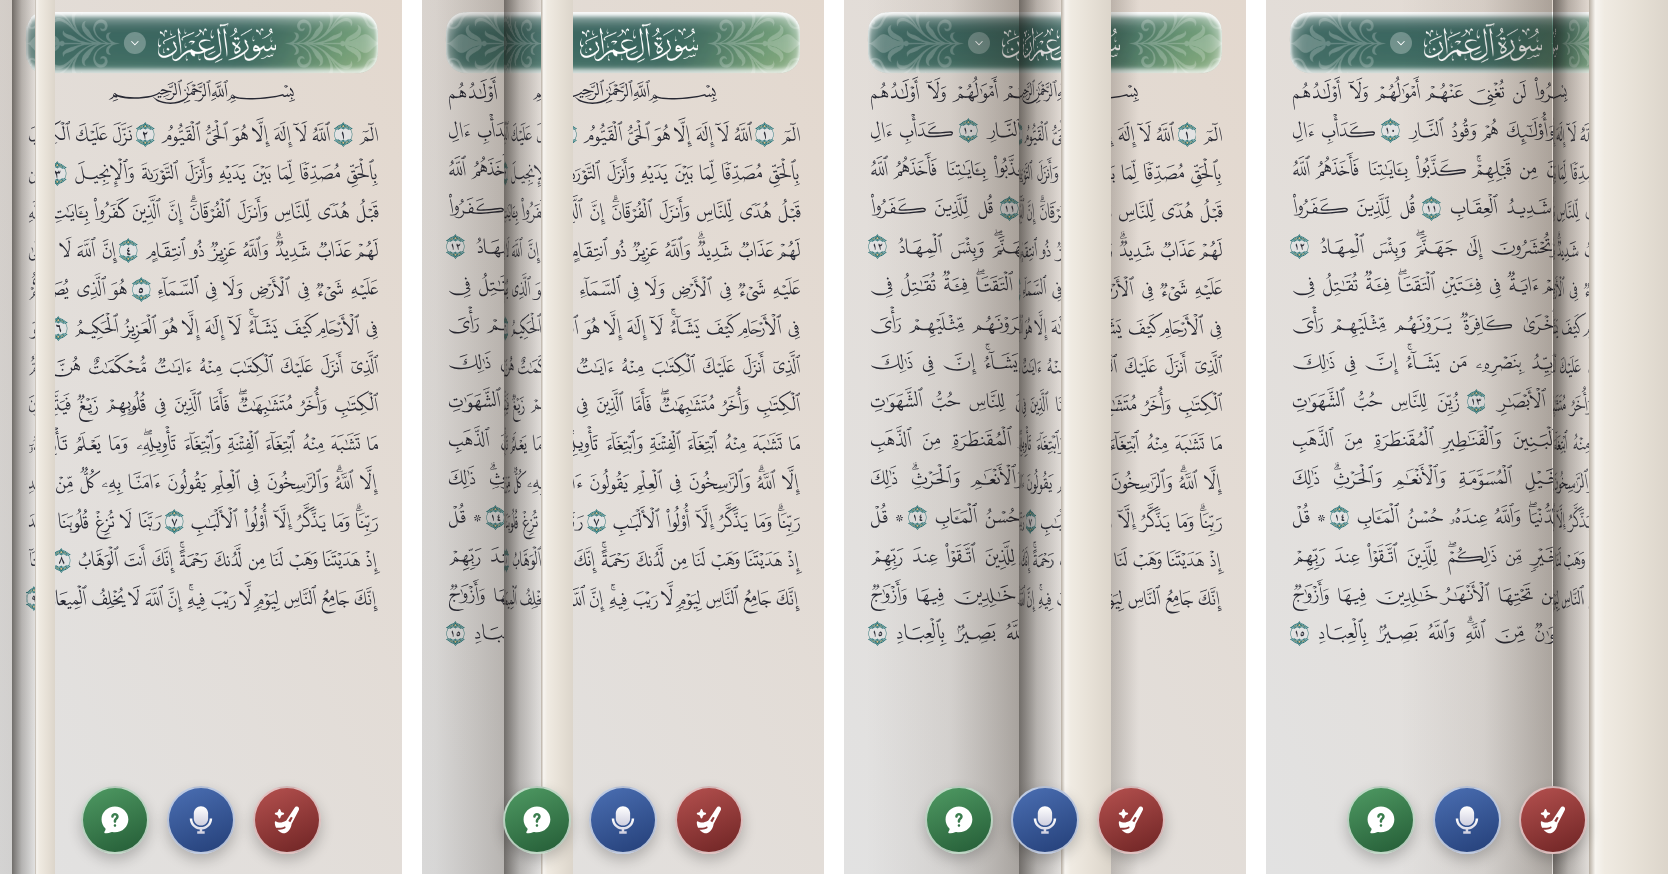
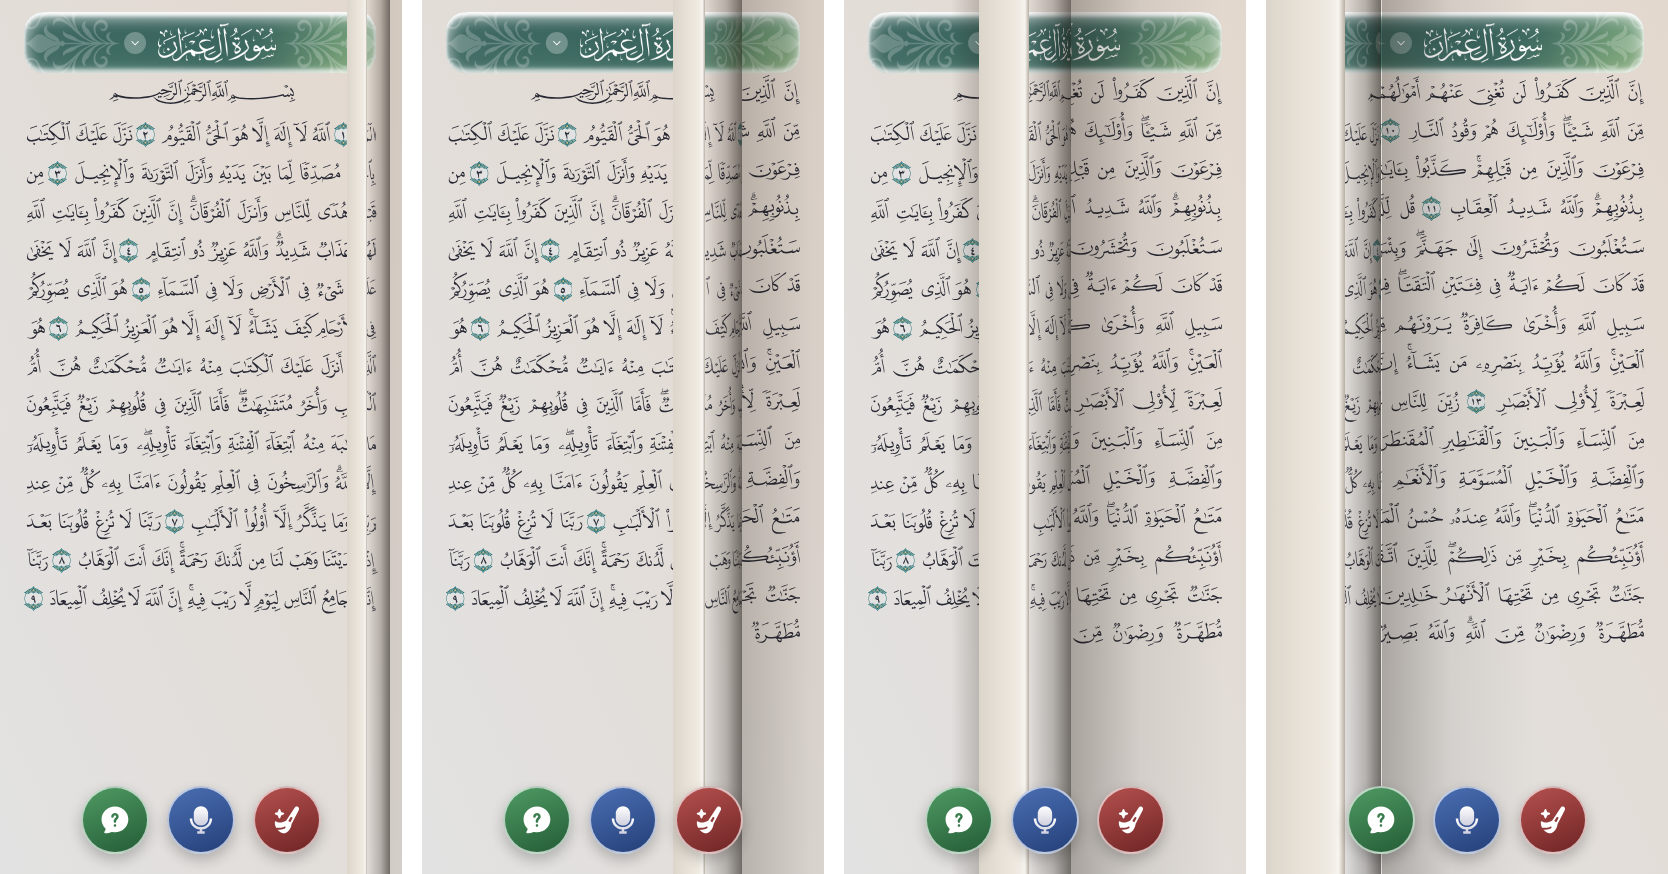
Page curl from right to left, as the founder asked
Swipe right → left for the next page: the leaf lifts from its right edge and
turns to the left, revealing the next page from the right; left → right
brings the previous page back. The curl's geometry is mirrored and each page
copy is mirrored back, so the text reads normally.

Claude-Session: https://claude.ai/code/session_019KAGuoNenRcEtdKF4MzfAA

diff --git a/maknoon/src/components/PageCurl.tsx b/maknoon/src/components/PageCurl.tsx
@@ -14,6 +14,8 @@ import Animated, { type SharedValue, useAnimatedStyle } from 'react-native-reani
  * `visible` (0/1) shows the curl only while a turn is under way; it stays mounted and ready at rest.
  * `leaf` draws the turning page; `under` the page that appears beneath it. Geometry is physical
  * (laid out left-to-right); the pages inside keep their right-to-left layout.
+ * `fromRight`: the leaf lifts from its right edge and turns to the left (binding on the left) — the
+ * whole curl is mirrored, and each page copy is mirrored back so its text reads normally.
  */
 const STRIPS = 14;
 const PAPER = '#EDE7DD';
@@ -25,7 +27,9 @@ export const PageCurl = memo(function PageCurl({
   height: H,
   leaf,
   under,
+  fromRight = false,
 }: {
+  fromRight?: boolean;
   progress: SharedValue<number>;
   visible: SharedValue<number>;
   width: number;
@@ -78,11 +82,11 @@ export const PageCurl = memo(function PageCurl({
   });
 
   return (
-    <Animated.View style={[StyleSheet.absoluteFill, styles.root, root]} pointerEvents="none">
+    <Animated.View style={[StyleSheet.absoluteFill, styles.root, fromRight && styles.mirror, root]} pointerEvents="none">
       <View style={[StyleSheet.absoluteFill, styles.ltr]}>
       {/* 1 · the page beneath, and the roll's shadow on it */}
       <Animated.View style={[styles.clip, { left: 0, height: H }, underStyle]}>
-        <View style={[styles.pinned, { width: W, height: H }, styles.rtl]}>{under}</View>
+        <View style={[styles.pinned, { width: W, height: H }, styles.rtl, fromRight && styles.mirror]}>{under}</View>
       </Animated.View>
       <Animated.View style={[styles.abs, { width: W * 0.38, height: H }, castShadow]}>
         <LinearGradient colors={['rgba(30,20,10,0)', 'rgba(30,20,10,0.08)', 'rgba(30,20,10,0.30)']} locations={[0, 0.55, 1]} start={{ x: 0, y: 0.5 }} end={{ x: 1, y: 0.5 }} style={StyleSheet.absoluteFill} />
@@ -90,12 +94,12 @@ export const PageCurl = memo(function PageCurl({
       {/* 2 · the leaf, flat */}
       <Animated.View style={[styles.clip, { height: H }, flat]}>
         <Animated.View style={[styles.pinned, { width: W, height: H }, flatInner]}>
-          <View style={[StyleSheet.absoluteFill, styles.rtl]}>{leaf}</View>
+          <View style={[StyleSheet.absoluteFill, styles.rtl, fromRight && styles.mirror]}>{leaf}</View>
         </Animated.View>
       </Animated.View>
       {/* 3 · the leaf rising round the roll, then its continuous shading */}
       {Array.from({ length: STRIPS }, (_, i) => (
-        <Strip key={i} i={i} W={W} H={H} geo={geo} progress={progress} leaf={leaf} />
+        <Strip key={i} i={i} W={W} H={H} geo={geo} progress={progress} leaf={leaf} mirror={fromRight} />
       ))}
       <Animated.View style={[styles.abs, { height: H }, rollShade]}>
         <LinearGradient
@@ -125,7 +129,7 @@ export const PageCurl = memo(function PageCurl({
 });
 
 /** One fine strip of paper on the rising quarter of the roll, squeezed by its curve. */
-function Strip({ i, W, H, geo, progress, leaf }: { i: number; W: number; H: number; geo: (p: number) => { x: number; R: number }; progress: SharedValue<number>; leaf: ReactNode }) {
+function Strip({ i, W, H, geo, progress, leaf, mirror }: { i: number; W: number; H: number; geo: (p: number) => { x: number; R: number }; progress: SharedValue<number>; leaf: ReactNode; mirror: boolean }) {
   const span = (p: number) => {
     'worklet';
     const { x, R } = geo(p);
@@ -148,7 +152,7 @@ function Strip({ i, W, H, geo, progress, leaf }: { i: number; W: number; H: numb
   return (
     <Animated.View style={[styles.clip, { height: H }, box]}>
       <Animated.View style={[{ position: 'absolute', left: 0, top: 0, width: W, height: H, transformOrigin: 'left' }, inner]}>
-        <View style={[StyleSheet.absoluteFill, styles.rtl]}>{leaf}</View>
+        <View style={[StyleSheet.absoluteFill, styles.rtl, mirror && styles.mirror]}>{leaf}</View>
       </Animated.View>
     </Animated.View>
   );
@@ -164,4 +168,5 @@ const styles = StyleSheet.create({
   clip: { position: 'absolute', top: 0, overflow: 'hidden' },
   // a page copy is pinned to the window's left edge (in a right-to-left page it would otherwise hang from the right)
   pinned: { position: 'absolute', left: 0, top: 0 },
+  mirror: { transform: [{ scaleX: -1 }] },
 });

diff --git a/maknoon/src/app/mushaf.tsx b/maknoon/src/app/mushaf.tsx
@@ -112,9 +112,9 @@ function MushafPage({ page }: { page: number }) {
     togglePage(su, ay);
   };
 
-  // ── Turning the page like a printed mushaf: the binding is on the right. Swiping left → right lifts the
-  // page by its free (left) edge and turns it over the spine, showing the next page beneath; swiping
-  // right → left brings the previous page back over. Vertical scrolling and taps are left alone.
+  // ── Turning the page like paper, the Arabic way: swiping right → left lifts the page by its right edge
+  // and turns it to the left, showing the next page beneath; swiping left → right brings the previous
+  // page back. Vertical scrolling and taps are left alone.
   const { width: winW } = useWindowDimensions();
   const flip = useSharedValue(0); // 0 rest · (0, 1] turning to the next page · [-1, 0) bringing back the previous
   const { height: winH } = useWindowDimensions();
@@ -137,7 +137,8 @@ function MushafPage({ page }: { page: number }) {
     .activeOffsetX([-16, 16])
     .failOffsetY([-14, 14])
     .onUpdate((e) => {
-      let v = e.translationX / winW;
+      // Arabic page turning: right → left for the next page (the leaf lifts from its right edge)
+      let v = -e.translationX / winW;
       if ((v > 0 && !canNext) || (v < 0 && !canPrev)) v *= 0.08; // first or last page: a little give, no turn
       flip.set(Math.max(-1, Math.min(1, v)));
     })
@@ -145,8 +146,9 @@ function MushafPage({ page }: { page: number }) {
       const v = flip.get();
       const d = v > 0 ? 1 : -1;
       const allowed = d === 1 ? canNext : canPrev;
-      const fling = Math.abs(e.velocityX) > 650 && Math.sign(e.velocityX) === d;
-      if (allowed && (Math.abs(v) > 0.3 || fling) && Math.sign(e.velocityX || v) !== -d) {
+      const vx = -e.velocityX;
+      const fling = Math.abs(vx) > 650 && Math.sign(vx) === d;
+      if (allowed && (Math.abs(v) > 0.3 || fling) && Math.sign(vx || v) !== -d) {
         runOnJS(playTurn)();
         // the rest of the turn takes time in proportion to what is left, quicker for a flick, easing out like paper settling
         const left = 1 - Math.abs(v);
@@ -231,8 +233,8 @@ function MushafPage({ page }: { page: number }) {
       </ScrollView>
       </Animated.View>
       </GestureDetector>
-      {PAGE_FLIP && curlsReady && canNext ? <PageCurl progress={forward} visible={showForward} width={winW} height={winH} leaf={<PageSheet page={page} />} under={<PageSheet page={page + 1} />} /> : null}
-      {PAGE_FLIP && curlsReady && canPrev ? <PageCurl progress={backward} visible={showBackward} width={winW} height={winH} leaf={<PageSheet page={page - 1} />} under={<PageSheet page={page} />} /> : null}
+      {PAGE_FLIP && curlsReady && canNext ? <PageCurl fromRight progress={forward} visible={showForward} width={winW} height={winH} leaf={<PageSheet page={page} />} under={<PageSheet page={page + 1} />} /> : null}
+      {PAGE_FLIP && curlsReady && canPrev ? <PageCurl fromRight progress={backward} visible={showBackward} width={winW} height={winH} leaf={<PageSheet page={page - 1} />} under={<PageSheet page={page} />} /> : null}
 
       <SurahPicker
         visible={picking}

diff --git a/maknoon/docs/STATUS.md b/maknoon/docs/STATUS.md
@@ -36,7 +36,7 @@ Last updated: 2026-11-12. Run `npm run check` to re-verify everything marked "te
 | M9 | Offline packs | Partly | SQLite packs, manifest with SHA-256, verified download, pack manager in Settings. **Not done:** hosting (`packsBaseUrl` is empty), edge tables in packs, search inside downloaded packs. |
 | — | Madinah Mushaf pages (QCF4) | Built, checked on web preview | Founder decision 2026-11-13 («استخدم خط المدينة على مسؤليتي»). The Mushaf shows each page as printed: 604 pages, 15 lines, the QCF4 glyphs. `npm run fonts:qcf4` (also run by `npm install`) verifies before writing: 604 pages, every ayah once and in order, every glyph word matched letter for letter to the KFGQPC Hafs text, all 84,109 glyph codes present in their fonts. Three words are drawn in two glyphs by the font (15:7, 27:20, 36:22). Fonts: 48 TTF files, 93 MB in the app (about 54 MB more to download); never committed, never served to the web. **Not done:** a run on a phone, zoom for the page view (the page fits the screen width), word highlight for search hits on the page. |
 | — | From RATQ (2026-11-13) | Built, checked on web | **Tafsir:** al-Tabari, Ibn Kathir, al-Sa'di and al-Baghawi download the publisher's original CSV from RATQ storage, are kept only if the SHA-256 matches, and are read in place through a byte index; all 24,944 passages read back identical to the verified packs, and RATQ's live files hash-match. No hosting of our own. **Translation:** French (Rachid Maach) bundled, 6,236 ayat and 1,306 footnotes verbatim, shown on the ayah screen. **Recitation:** 36 Hafs recitations streamed from RATQ (play on the ayah screen and the Home card; reciter in Settings); 8 have complete verified ayah timings, the rest play whole surahs. **Mushaf listening:** «استمع من هذه الصفحة» plays from the page's first ayah, colours the ayah being recited, turns the page when the recitation moves on and continues into the next surah. **English translation** (Hilali & Khan, cms-9) added by founder decision. **Not done:** playback on a phone (needs a new build: expo-audio is a native module). |
-| — | Mushaf page turning (2026-11-13) | Built, checked on web | A paper page curl (`src/components/PageCurl.tsx`), after the founder's flipbook reference: the leaf stays flat from the binding to a fold, rolls round a cylinder past it (shaded strips), shows its back as it turns and casts a shadow on the page beneath. Swipe left → right for the next page, right → left for the previous; the top bar «‹ صفحة ٥٠ ›» also turns pages. | Swipe left → right turns to the next page like a printed mushaf (the leaf pivots on the right-hand binding, with shading and the shadow it casts), right → left brings the previous page back; vertical scroll and tap still work. Page-turn sound: one take generated with ElevenLabs (sound effects) for the founder, trimmed to 1.6 s (`assets/sounds/page-turn.mp3`). The page turner in the controls is removed. Controls use Thiqal icons from the Gymco repo (`src/components/thiqalIcons.ts`; Thiqal is the founder's own icon library). **Not done:** feel and sound on a phone. |
+| — | Mushaf page turning (2026-11-13) | Built, checked on web | A paper page curl (`src/components/PageCurl.tsx`), after the founder's flipbook reference: the leaf stays flat from the binding to a fold, rolls round a cylinder past it (shaded strips), shows its back as it turns and casts a shadow on the page beneath. As the founder asked, Arabic-style: swipe right → left for the next page (the leaf lifts from its right edge and turns to the left), left → right for the previous; the top bar «‹ صفحة ٥٠ ›» also turns pages. | Swipe left → right turns to the next page like a printed mushaf (the leaf pivots on the right-hand binding, with shading and the shadow it casts), right → left brings the previous page back; vertical scroll and tap still work. Page-turn sound: one take generated with ElevenLabs (sound effects) for the founder, trimmed to 1.6 s (`assets/sounds/page-turn.mp3`). The page turner in the controls is removed. Controls use Thiqal icons from the Gymco repo (`src/components/thiqalIcons.ts`; Thiqal is the founder's own icon library). **Not done:** feel and sound on a phone. |
 | M10 | Recitation check | Built, not yet run on a phone | Matching logic with 11 tests (`src/recitation/match.ts`). Microphone → on-device Whisper through `whisper.rn` 0.7.4 with audio kept in memory (no filesystem is given to the transcriber, so nothing is written). Optional model pack with SHA-256 check and a row in Settings. Tasmee lives in the Mushaf page, following the founder's design: the microphone button hides the page's words and each appears as it is recited (latest word highlighted green); «؟» reveals the next word and the clear button resets; skipped, changed and hinted words show in gold. The hifz session's «ابدأ» opens the portion's page. The web build plays a scripted preview because it cannot listen. iOS and Android JavaScript bundles build. Model licence: founder confirmed Apache-2.0 on 2026-11-12; credits added. **Not done:** converting and hosting the model (`pipeline/models/convert-tarteel.sh`; needs huggingface.co, which this environment can't reach), a native build and a run on a mid-range Android and an iPhone, the recorded deliberate-mistake set (`pipeline/recitation-eval/`), a network-traffic check, and a word map for the 252 ayat (4%) whose search spelling splits words differently from the displayed text (those show the word's number instead of a highlight). |
 | M11 | Module skeletons | Screens only | Hub screens exist from the canvas with sample content. Not loading from fixtures, no coverage meter from real counts. |
 | M12 | Semantic search | Done ahead of order | All 6,236 ayat have vectors (BGE-M3, MIT). Top-5 on the test set: words 73% → words + meaning 87% (`npm run search:eval`). Cost: Cloudflare free tier (€0). Only ayat are embedded so far, since other node types don't exist yet. |
